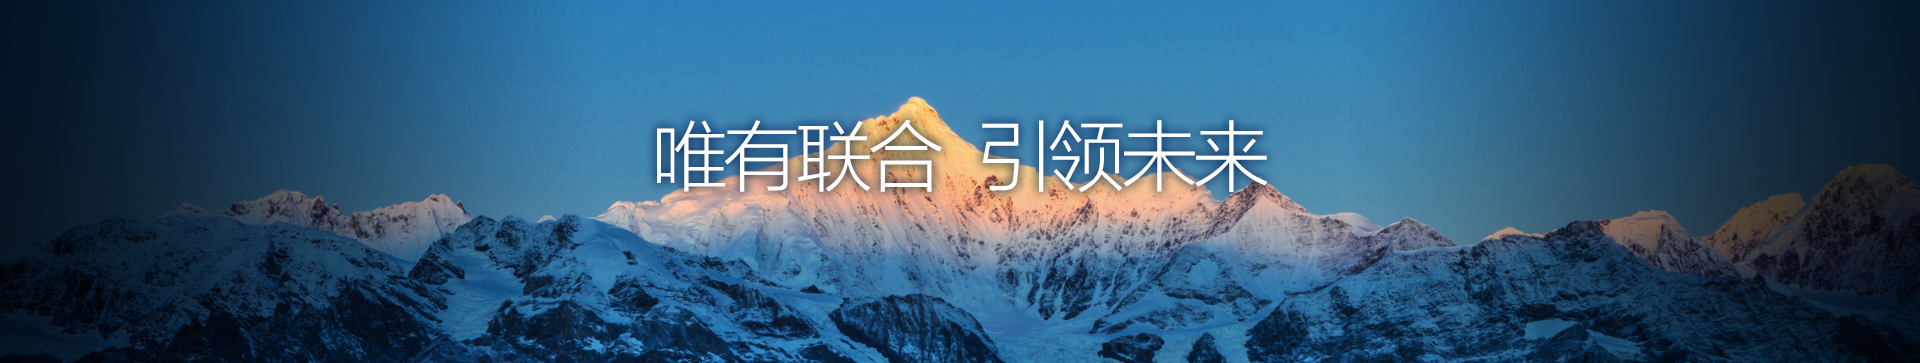
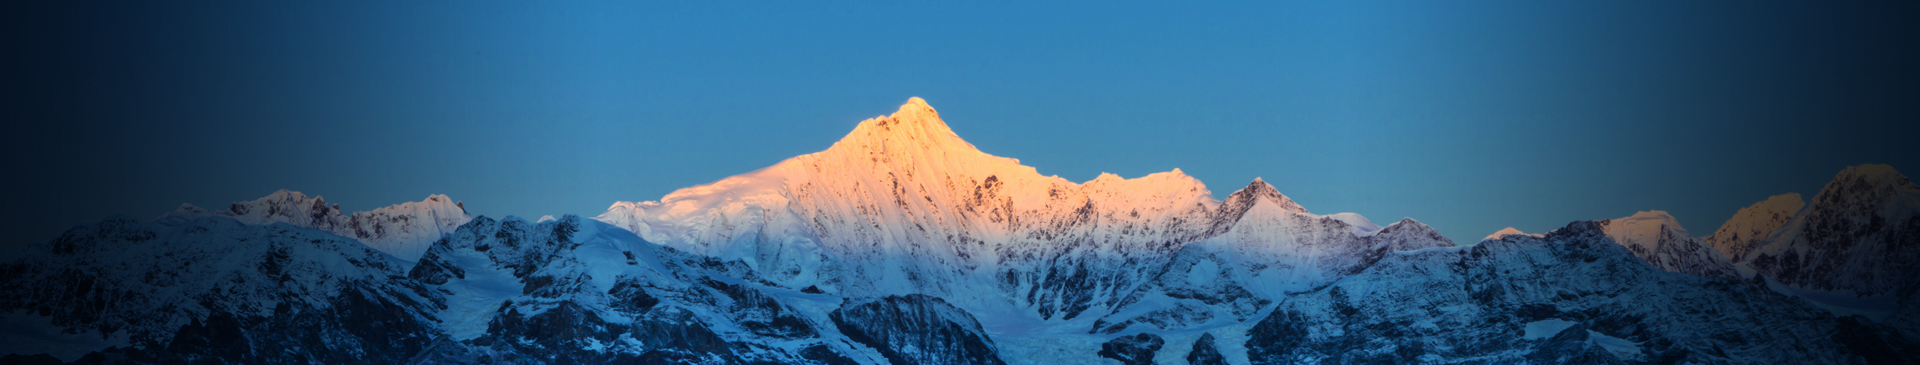
首页的轮播文字分离

diff --git a/src/main/webapp/resources/js/front/common/common.js b/src/main/webapp/resources/js/front/common/common.js
@@ -31,7 +31,7 @@ var FrontCommonFunction = {
 		$("[class*='date-pick']").each(function(){
 			$(this).datepicker({ dateFormat: 'yy-mm-dd' });
 		});
-		
+
 	},
 	/* 判断用户是否登录 */
 	isLogin : function() {
@@ -59,7 +59,7 @@ var FrontCommonFunction = {
 		this.baseOptions['success'] = function(datas) {
 			var queryReturnList = datas;
 			var dd = '';
-			for(var i = 0; i < queryReturnList.length; i++) {	
+			for(var i = 0; i < queryReturnList.length; i++) {
 				dd += '<dd value="'+i+'">' + queryReturnList[i].name + '</dd>';
 			}
 			$(id).append(dd);
@@ -77,7 +77,7 @@ var FrontCommonFunction = {
 		this.baseOptions['success'] = function(datas) {
 			var queryReturnList = datas;
 			var dd = '';
-			for(var i = 0; i < queryReturnList.length; i++) {	
+			for(var i = 0; i < queryReturnList.length; i++) {
 				dd += '<dd value="'+i+'">' + queryReturnList[i].name + '</dd>';
 			}
 			$(id).append(dd);
@@ -147,7 +147,7 @@ var FrontCommonFunction = {
 		this.baseOptions['success'] = function(datas) {
 			var queryReturnList = datas.queryReturnList;
 			var dd = '';
-			for(var i = 0; i < queryReturnList.length; i++) {	
+			for(var i = 0; i < queryReturnList.length; i++) {
 				dd += '<dd id="'+queryReturnList[i].id+'">' + queryReturnList[i].name + '</dd>';
 			}
 			$(id).append(dd);
@@ -165,11 +165,11 @@ var FrontCommonFunction = {
 		this.baseOptions['success'] = function(datas) {
 			var queryReturnList = datas;
 			var option = ""
-				for(var i = 0; i < queryReturnList.length; i++) {	
+				for(var i = 0; i < queryReturnList.length; i++) {
 						option += "<div class='fl list'><div class='checkbox fl'>"
 						option+='<img id="domainCheckBox'+i+'" src="../resources/images/front/img/checkbox.png"/>'
                         option+="</div>"
-                        option+="<div class='fl'>"+'<input type="hidden" value="'+i+'" id="domainCheckBoxValue'+i+'"/>'+queryReturnList[i].name+"</div>"	
+                        option+="<div class='fl'>"+'<input type="hidden" value="'+i+'" id="domainCheckBoxValue'+i+'"/>'+queryReturnList[i].name+"</div>"
                         option += "<div class='clear'></div>"
 						+'</div>';
 			     }
@@ -196,17 +196,17 @@ var FrontCommonFunction = {
 				  host+='<img id="remenParent" src="../resources/images/front/img/checkbox.png"/>'
 				host+='</div>'
 				host+="<div class='fl'>热门地区</div>"
-				host+="<div class='clear'></div>"	
+				host+="<div class='clear'></div>"
 			host+='</div>'
 			var list0=provinceAreaMap["0"];
 			if(list0!==undefined && list0!==null){
-				for(var i = 0; i < list0.length; i++) {	
+				for(var i = 0; i < list0.length; i++) {
 					host+='<div class="fl list">'
 					    host+='<div class="checkbox fl">'
 						  host+='<img id="remenChild'+i+'" src="../resources/images/front/img/checkbox.png"/>'
 						host+='</div>'
 						host+="<div class='fl'>"+'<input type="hidden" value="'+list0[i]+'" id="remenChildValue'+i+'"/>'+list0[i]+"</div>"
-						host+="<div class='clear'></div>"	
+						host+="<div class='clear'></div>"
 					host+='</div>'
 				}
 				host+="<div class='more fl' id='moresLink' style='margin-top:2px'><a href='#'>更多>><a></div>"
@@ -214,7 +214,7 @@ var FrontCommonFunction = {
 				host+="</li>"
 				option+=host;
 			}
-			
+
 			var more="";
             more+="<div class='molist'>"
 			//华南地区
@@ -225,7 +225,7 @@ var FrontCommonFunction = {
             	huanan+='<img id="huananParent" src="../resources/images/front/img/checkbox.png"/>'
             	huanan+='</div>'
             	huanan+="<div class='fl'>华南地区</div>"
-            	huanan+="<div class='clear'></div>"	
+            	huanan+="<div class='clear'></div>"
               huanan+='</div>'
 			var list1 = provinceAreaMap["1"];
 			if (list1 !== undefined && list1 !== null) {
@@ -277,7 +277,7 @@ var FrontCommonFunction = {
 				huadong += '</div>'
 			var list3=provinceAreaMap["3"];
 			if(list3!==undefined && list3!==null){
-				for(var i = 0; i < list3.length; i++) {	
+				for(var i = 0; i < list3.length; i++) {
 					huadong += "<div class='fl list'>"
 						huadong += "<div class='checkbox fl'>"
 						huadong += '<img id="huadongChild'+i+'" src="../resources/images/front/img/checkbox.png"/>'
@@ -301,7 +301,7 @@ var FrontCommonFunction = {
 				huazhong += '</div>'
 			var list4=provinceAreaMap["4"];
 			if(list4!==undefined && list4!==null){
-				for(var i = 0; i < list4.length; i++) {	
+				for(var i = 0; i < list4.length; i++) {
 					huazhong += "<div class='fl list'>"
 						huazhong += "<div class='checkbox fl'>"
 						huazhong += '<img id="huazhongChild'+i+'" src="../resources/images/front/img/checkbox.png"/>'
@@ -325,7 +325,7 @@ var FrontCommonFunction = {
 				xibei += '</div>'
 			var list5=provinceAreaMap["5"];
 			if(list5!==undefined && list5!==null){
-				for(var i = 0; i < list5.length; i++) {	
+				for(var i = 0; i < list5.length; i++) {
 					xibei += "<div class='fl list'>"
 						xibei += "<div class='checkbox fl'>"
 						xibei += '<img id="xibeiChild'+i+'" src="../resources/images/front/img/checkbox.png"/>'
@@ -349,7 +349,7 @@ var FrontCommonFunction = {
 				dongbei += '</div>'
 			var list6=provinceAreaMap["6"];
 			if(list6!==undefined && list6!==null){
-				for(var i = 0; i < list6.length; i++) {	
+				for(var i = 0; i < list6.length; i++) {
 					dongbei += "<div class='fl list'>"
 						dongbei += "<div class='checkbox fl'>"
 						dongbei += '<img id="dongbeiChild'+i+'" src="../resources/images/front/img/checkbox.png"/>'
@@ -373,7 +373,7 @@ var FrontCommonFunction = {
 				xinan += '</div>'
 			var list7=provinceAreaMap["7"];
 			if(list7!==undefined && list7!==null){
-				for(var i = 0; i < list7.length; i++) {	
+				for(var i = 0; i < list7.length; i++) {
 					xinan += "<div class='fl list'>"
 						xinan += "<div class='checkbox fl'>"
 						xinan += '<img id="xinanChild'+i+'" src="../resources/images/front/img/checkbox.png"/>'
@@ -397,7 +397,7 @@ var FrontCommonFunction = {
 			gangaotai += '</div>'
 			var list8=provinceAreaMap["8"];
 			if(list8!==undefined && list8!==null){
-				for(var i = 0; i < list8.length; i++) {	
+				for(var i = 0; i < list8.length; i++) {
 					gangaotai += "<div class='fl list'>"
 						gangaotai += "<div class='checkbox fl'>"
 						gangaotai += '<img id="gangaotaiChild'+i+'" src="../resources/images/front/img/checkbox.png"/>'
@@ -421,7 +421,7 @@ var FrontCommonFunction = {
 			haiwai += '</div>'
 			var list9=provinceAreaMap["9"];
 			if(list9!==undefined && list9!==null){
-				for(var i = 0; i < list9.length; i++) {	
+				for(var i = 0; i < list9.length; i++) {
 					haiwai += "<div class='fl list'>"
 						haiwai += "<div class='checkbox fl'>"
 						haiwai += '<img id="haiwaiChild'+i+'" src="../resources/images/front/img/checkbox.png"/>'
@@ -450,7 +450,7 @@ var FrontCommonFunction = {
 		this.baseOptions['success'] = function(datas) {
 			var queryReturnList = datas;
 			var option = ""
-				for(var i = 0; i < queryReturnList.length; i++) {	
+				for(var i = 0; i < queryReturnList.length; i++) {
 						option+= "<div class='fl txts'>"
 						option+='<input class="checkbox" id="investDomainCheckBox'+i+'" value="'+i+'" name="investDomain" type="checkbox">'
 						option+='<div class="fl s">'+queryReturnList[i].name+'</div>'
@@ -705,7 +705,7 @@ var FrontCommonFunction = {
 		if(dataObj === null || dataObj === 'null'||dataObj === undefined){
 			result = '不限';
 		} else {
-			
+
 			if(dataObj.length>5){
 				dataObj=dataObj.substring(0,5);
 			}
@@ -856,7 +856,7 @@ var FrontCommonFunction = {
 			for(var i = 0; i < queryReturnList.length; i++){
 				var list=queryReturnList[i];
 				var areaDesc='';
-				for(var j = 0; j < list.length; j++) {	
+				for(var j = 0; j < list.length; j++) {
 					areaDesc=list[j].areaDec;
 					option += '<div class="checkbox-inline"><label>'
 					option += '<input type="checkbox" name="basicProvinceAreaCheckbox[]" value="+'+i+j+'+" />'+list[j].province
@@ -867,7 +867,7 @@ var FrontCommonFunction = {
 			$(id).append(option);
 		};
 		$.ajax(this.baseOptions);
-	},	
+	},
 	setStrAmount:function(dataObj){
 		var result = '';
 		if(dataObj === null || dataObj === 'null'||dataObj === undefined){
@@ -1012,7 +1012,7 @@ var FrontCommonFunction = {
 			}
 		});
 	},
-	
+
 	/* 保存form中的input的value值 */
 	formValue : function(formId) {
 		var result = [];
@@ -1024,7 +1024,7 @@ var FrontCommonFunction = {
 		});
 		return result;
 	},
-	
+
 	hiddenDiv : function(clickId, hiddenId, showId) {
 		$('#' + clickId).live('click', function() {
 			$(this).hide();
@@ -1064,6 +1064,32 @@ var FrontCommonFunction = {
 				$.showTuiErrorDialog('发生通讯错误！');
 			}
 		}
+	 },
+	 limitTextLineNum: function(str, $el, maxLineNum, extraLabel) {
+		 // $el 必须声明 lineheight 属性
+		 var realHeight = $el.height();
+		 var limitHeight = $el.css('line-height') * maxLineNum;
+		 var $temp = $el.clone();
+		 var strTemp = '';
+		 var ti = str.length;
+		 var cutTail = function(str, $el) {
+			 str = str.substr(0, str.length - 2);
+			 var strTemp = str + extraLabel;
+			 $el.html(strTemp);
+			 if($el.height() > limitHeight) {
+				 return cutTail(str, $el);
+			 }
+			 return strTemp;
+		 }
+		 for (i = 0; i < ti; i++) {
+			 strTemp += str[i];
+			 $temp.html(strTemp);
+			 if ($temp.height() > limitHeight) {
+				 strTemp = cutTail(strTemp, $temp);
+				 break;
+			 }
+		 }
+		 $el.html(strTemp);
 	 },
 	 getResultMaitText: function(str, size,moreInfoId,id) {
 		 if(str === null || str === 'null' ||str === undefined){
@@ -1142,7 +1168,7 @@ var FrontCommonFunction = {
 			  $(titleInputedWord).html(inputNum + "字节");
 			  $(titleInputingWord).html((maxlenth - inputNum)+ "字母," + (Math.round(((maxlenth -inputNum) / 2) - 0.5)) + "汉字");
 		}
-		 
+
 		 //取得被*替换掉的字符串
 	     var replaceText=$(id).val().replace(/[^\x00-\xff]/g, "**");
 	     var maxStr=replaceText.substring(0,maxlenth);
@@ -1215,7 +1241,7 @@ var FrontCommonFunction = {
 		}
 		var paginationInfo =
 			          '<div id="paginationInfo">' +
-		        		 initPaginationBar(sumPage, currentPage) + 
+		        		 initPaginationBar(sumPage, currentPage) +
 		        	   '</div>'+
 		            	'<li class="fl all">共<span id="sumPage">'+ sumPage +'</span>页</li>'+
 		            	'<li class="inpus fl"><input id="toPage" type="text"/>页</li>' +
@@ -1248,7 +1274,7 @@ var FrontCommonFunction = {
 			}
 			obj[methodName](null);
 		});
-	},	
+	},
 	maxRecordPerPage:function() {
 		//每页显示几条
 		var maxRecordPerPage = 8;
@@ -1367,9 +1393,9 @@ function initPaginationBar(sumPage, currentPage) {
 			} else {
 				paginationBar = paginationBar + '<div><a>'+ i +'</a></div>';
 			}
-		} 
+		}
 		paginationBar=paginationBar+"</li>";
-	} 
+	}
 	// 如果总页数大于5页，并且当前页小于等于5，显示 '12345...下一页'
 	if (sumPage > 5 && currentPage <= 5) {
 		for(var j = 1; j <= currentPage; j++) {
@@ -1378,10 +1404,10 @@ function initPaginationBar(sumPage, currentPage) {
 					paginationBar = paginationBar + '<div><a>'+ (j-1) +'</a></div>';
 				}
 				paginationBar = paginationBar + '<b class="pageCur"><div class="active">'+ j +'</div></b>';
-			} 
-		} 
+			}
+		}
 		if (currentPage === sumPage-1) {
-			paginationBar = paginationBar + '<div><a>'+ (currentPage+1) +'</a></div>'; 
+			paginationBar = paginationBar + '<div><a>'+ (currentPage+1) +'</a></div>';
 		}
 		if (currentPage < sumPage-2) {
 			var tem='';
@@ -1395,7 +1421,7 @@ function initPaginationBar(sumPage, currentPage) {
 	    }
 		paginationBar=paginationBar+"</li>";
 	}
-	
+
 	// 如果总页数大于5页，并且当前页大于5，显示 '123..下一页'
 	if (sumPage > 5 && currentPage > 5) {
 		var tem1="";
@@ -1406,7 +1432,7 @@ function initPaginationBar(sumPage, currentPage) {
 		if (currentPage === sumPage-1) {
 			tem2= '<div><a>'+ (currentPage-1) +'</a></div>';
 		}
-		
+
 		var tem3="";
 		if (currentPage === sumPage) {
 			tem3+= '<div><a>'+ (currentPage-2) +'</a></div>';
@@ -1417,14 +1443,14 @@ function initPaginationBar(sumPage, currentPage) {
 						tem1+
 						tem2+
 						tem3+
-						'<b class="pageCur"><div class="active">'+ currentPage +'</div></b>'; 
+						'<b class="pageCur"><div class="active">'+ currentPage +'</div></b>';
 		if (currentPage === sumPage-1) {
-			paginationBar = paginationBar + '<div><a>'+ (currentPage+1) +'</a></div>'; 
+			paginationBar = paginationBar + '<div><a>'+ (currentPage+1) +'</a></div>';
 		}
 		if (currentPage === sumPage-2) {
 			paginationBar = paginationBar +
-			'<div><a>'+ (currentPage+1) +'</a></div>' + 
-			'<div><a>'+ (currentPage+2) +'</a></div>'; 
+			'<div><a>'+ (currentPage+1) +'</a></div>' +
+			'<div><a>'+ (currentPage+2) +'</a></div>';
 		}
 		if (currentPage < sumPage-2) {
 			paginationBar =paginationBar + '<div><a>'+ (currentPage+1) +'</a></div>' +
@@ -1445,6 +1471,3 @@ function initPaginationBar(sumPage, currentPage) {
 $(document).ready(function() {
 	FrontCommonFunction.toUpperCase();
 });
-
-
-

diff --git a/src/main/webapp/resources/css/front/index.css b/src/main/webapp/resources/css/front/index.css
@@ -2,7 +2,12 @@
 .banner ul{width: 400%;}
 .banner li{float:left;position: relative;z-index: 5}
 .banner .width1200{bottom: 0px;height: 365px;top: 0px}
-.banner .width1200 .txt{position: absolute;bottom: 20px;color:#fff;font-size: 51.79px;left: 0px}
+.banner .width1200 .txt{    position: absolute;
+    width: 100%;
+    bottom: 42px;
+    color: #fff;
+    font-size: 47px;
+    text-align: center;}
 .banner .width1200 .leftbutton{position: absolute;top: 50%;height: 94px;width: 54px;left: 0px;margin-top: -110px;cursor: pointer;display: none}
 .banner .width1200 .rightbutton{position: absolute;top: 50%;height: 94px;width: 54px;right: 0px;margin-top: -110px;cursor: pointer;display: none}
 .banner .btns{position: absolute;right: 0px;bottom: 30px}
@@ -13,8 +18,8 @@
 
 .topnav{height: 52px;width: 100%;background: #349fc4;
 	margin-bottom: 20px;
-	-moz-box-shadow:0px 0px 15px #000;/*firefox*/ 
-	-webkit-box-shadow:0px 0px 15px #000;/*webkit*/ 
+	-moz-box-shadow:0px 0px 15px #000;/*firefox*/
+	-webkit-box-shadow:0px 0px 15px #000;/*webkit*/
 	box-shadow: 0px 0px 15px #000;position: relative;
 	z-index: 6;
 }
@@ -26,8 +31,8 @@
 .cs {
 	height: 440px;
 	width: 100%;
-	-moz-box-shadow:0px 8px 15px #e2e1e2;/*firefox*/ 
-	-webkit-box-shadow:0px 8px 15px #e2e1e2;/*webkit*/ 
+	-moz-box-shadow:0px 8px 15px #e2e1e2;/*firefox*/
+	-webkit-box-shadow:0px 8px 15px #e2e1e2;/*webkit*/
 	box-shadow: 0px 8px 15px #e2e1e2;
 	background: #fff;
 	margin-top: -16px;
@@ -38,16 +43,16 @@
 .cs ul li{width: 33%;display: inline-block;text-align: center;height: 400px;}
 .cs ul li .bgs{width: 214px;height: 214px;background: #fff;border-radius: 214px;
 	box-shadow: 0px 0px 25px #b1d3de;
-	-moz-box-shadow:0px 0px 25px #b1d3de;/*firefox*/ 
-	-webkit-box-shadow:0px 0px 25px #b1d3de;/*webkit*/ 
+	-moz-box-shadow:0px 0px 25px #b1d3de;/*firefox*/
+	-webkit-box-shadow:0px 0px 25px #b1d3de;/*webkit*/
 	margin: 0 auto;
 	text-align: center;
 	margin-top: 30px
 }
 .cs ul li .img2{display: none}
 .cs ul li:hover{
-	-moz-box-shadow:0px 0px 15px #d9e0e7;/*firefox*/ 
-	-webkit-box-shadow:0px 0px 15px #d9e0e7;/*webkit*/ 
+	-moz-box-shadow:0px 0px 15px #d9e0e7;/*firefox*/
+	-webkit-box-shadow:0px 0px 15px #d9e0e7;/*webkit*/
 	box-shadow: 0px 0px 15px #d9e0e7;
 	background: #fff;
 }
